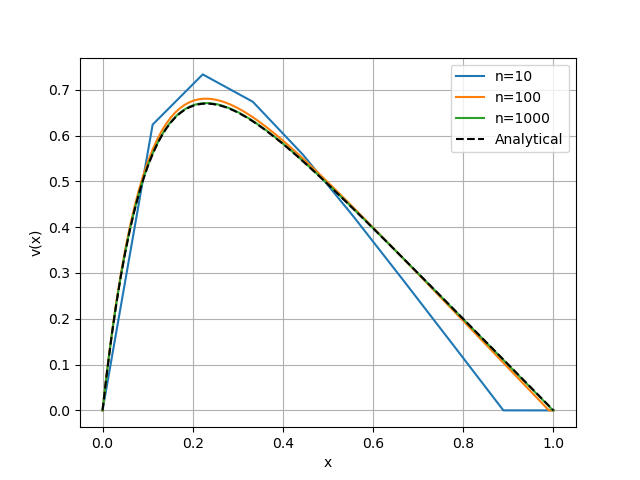
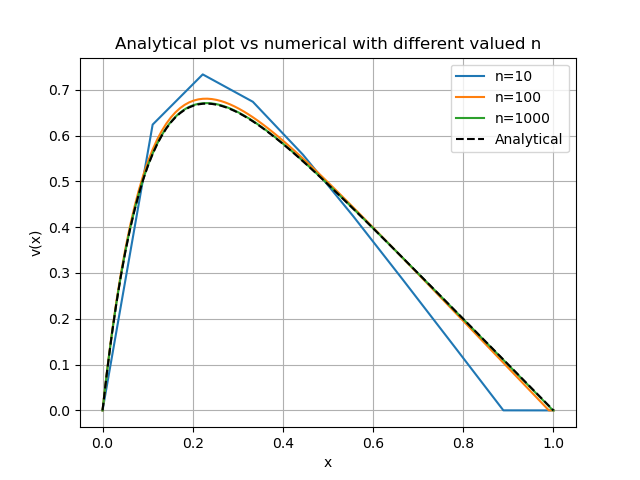
git commit

Changed region(s): [[0.1875, 0.0625, 0.8438, 0.125]]

diff --git a/proj1/lesfil.py b/proj1/lesfil.py
@@ -54,6 +54,7 @@ plt.plot(x10,v10, label="n=10")
 plt.plot(x100,v100, label="n=100")
 plt.plot(x1000,v1000, label="n=1000")
 plt.plot(x100,u100, "k--", label="Analytical")
+plt.title("Analytical plot vs numerical with different valued n")
 plt.xlabel("x")
 plt.ylabel("v(x)")
 plt.legend()
@@ -65,7 +66,9 @@ plt.show()
 plt.plot(x10, logerror10, label="n = 10")
 plt.plot(x100, logerror100, label="n = 100")
 plt.plot(x1000, logerror1000, label="n = 1000")
-plt.title("Logerror")
+plt.title("Absolute error")
+plt.xlabel("x")
+plt.ylabel("Absolute error(u, v)")
 plt.grid()
 plt.legend()
 plt.savefig("figure8a")
@@ -75,6 +78,8 @@ plt.plot(x10, relerror10, label="n = 10")
 plt.plot(x100, relerror100, label="n = 100")
 plt.plot(x1000, relerror1000, label="n = 1000")
 plt.title("Relative error")
+plt.xlabel("x")
+plt.ylabel("Relavtive error(u, v)")
 plt.grid()
 plt.legend()
 plt.savefig("figure8b")
